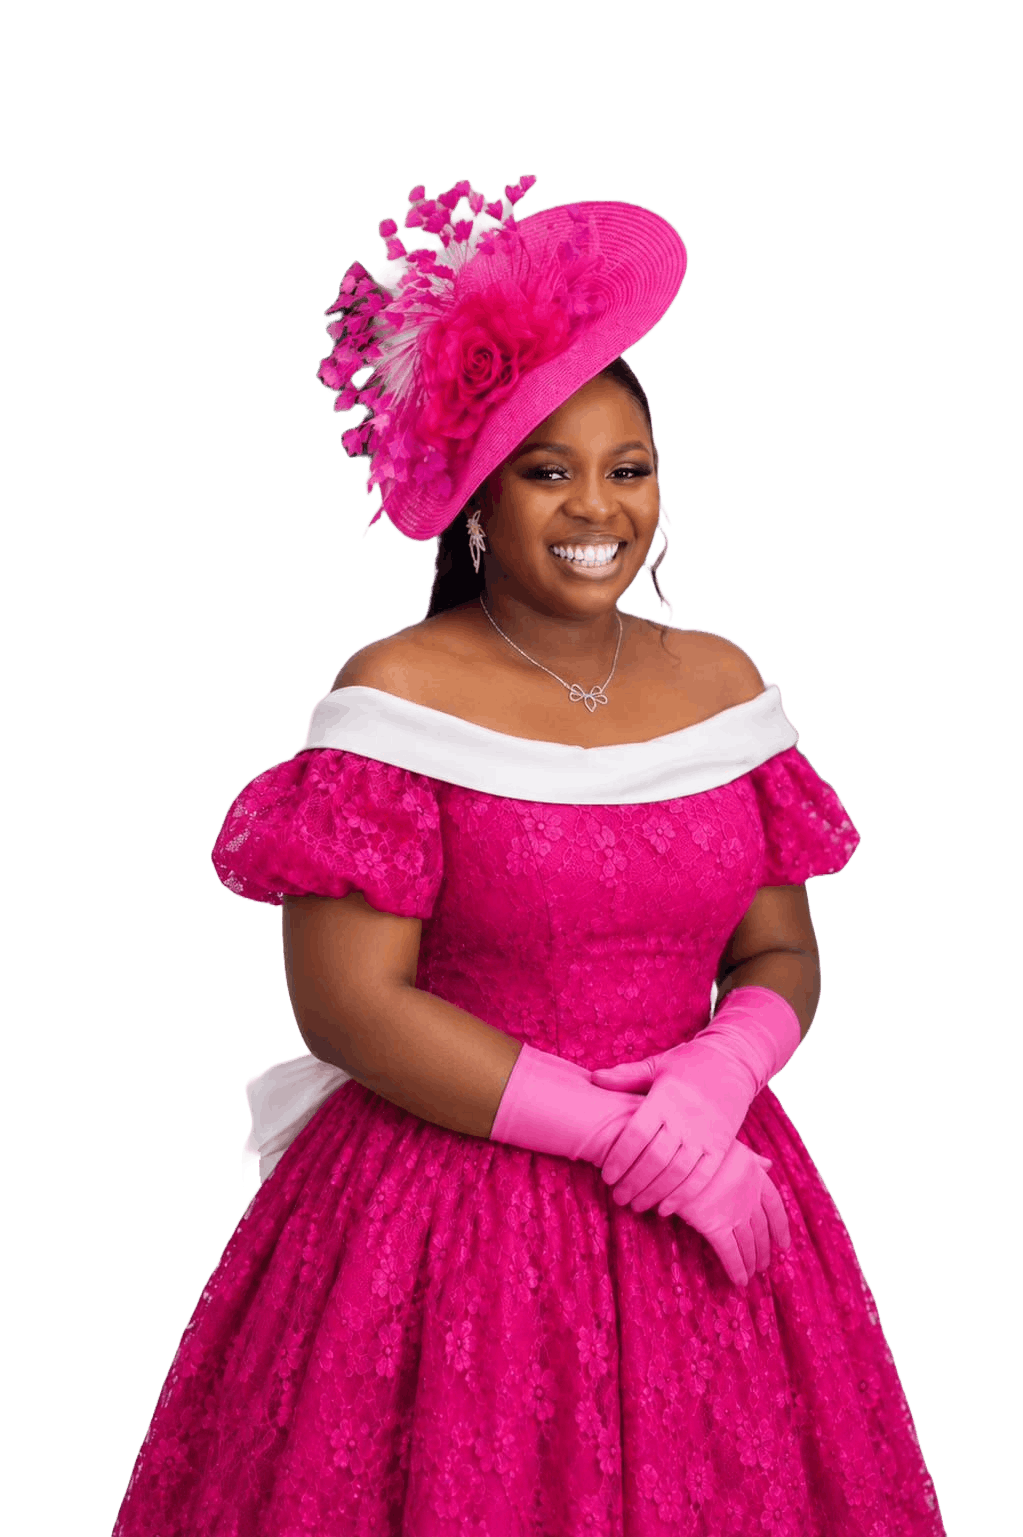
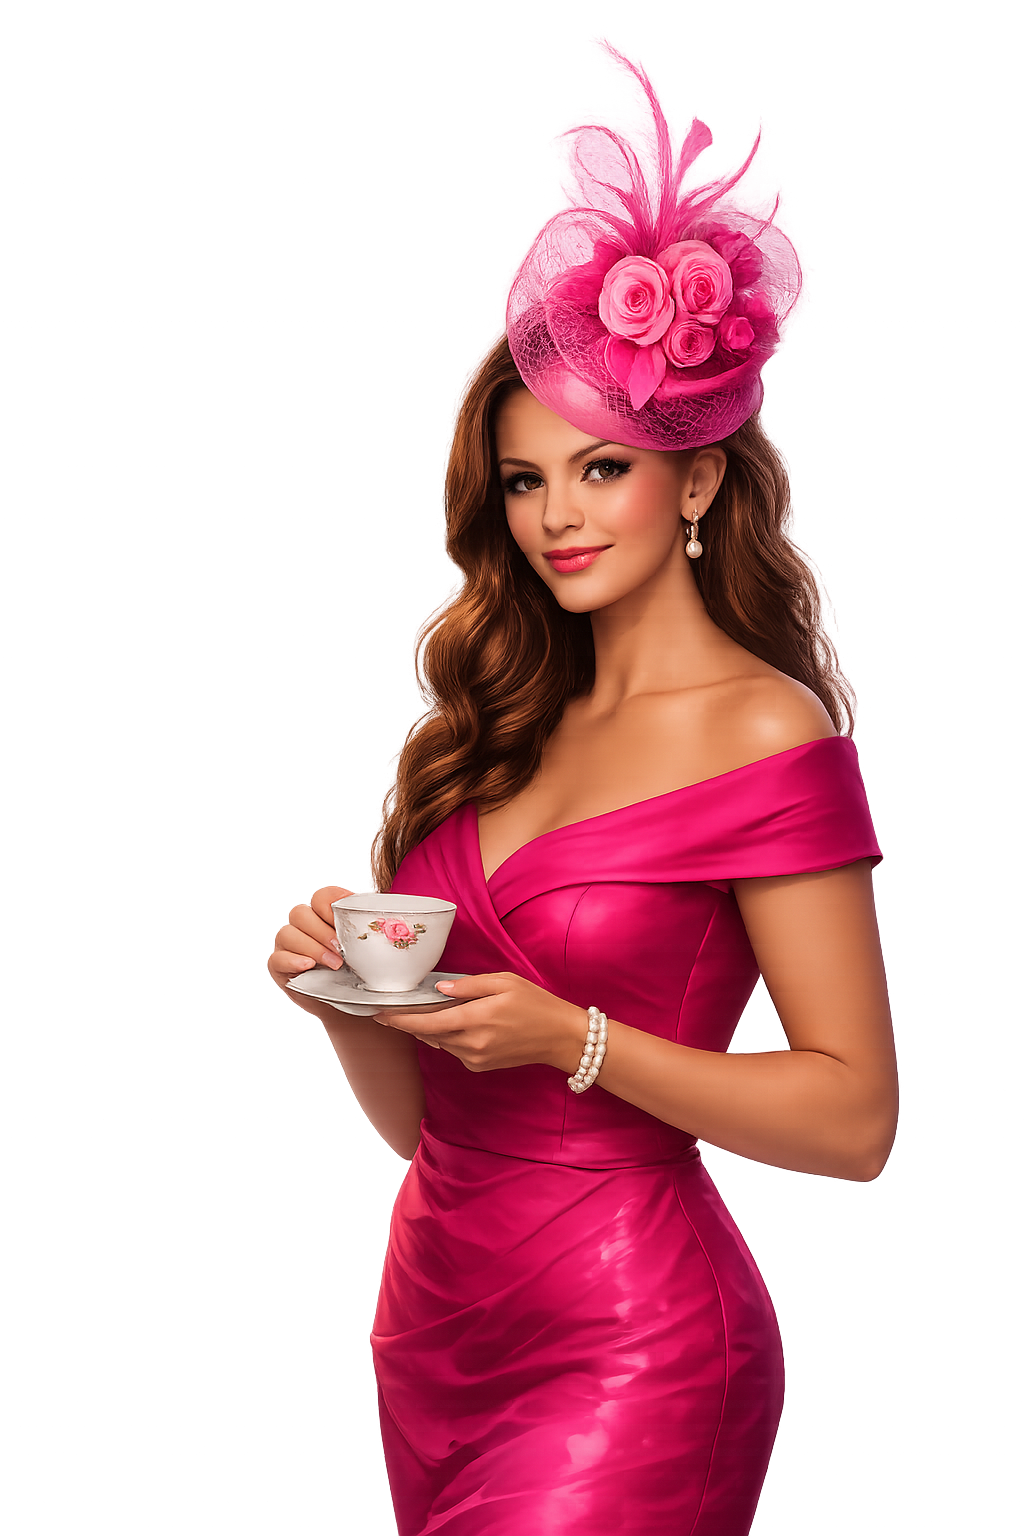
Initial commit

diff --git a/resources/views/landing.blade.php b/resources/views/landing.blade.php
@@ -379,62 +379,161 @@
 
  <!-- ==================== GALLERY SECTION ==================== -->
 <section class="py-16 sm:py-20 bg-[#0d0418]" id="gallery">
-    <div class="max-w-7xl mx-auto px-4 sm:px-6 lg:px-8">
-        <div class="text-center mb-12 sm:mb-16">
-            <p class="text-rose-300 text-sm uppercase tracking-[0.2em] mb-3 font-medium">Moments</p>
-            <h2 class="font-display text-3xl sm:text-4xl md:text-5xl font-bold text-white">Gallery</h2>
-        </div>
-        <div class="grid grid-cols-2 sm:grid-cols-3 lg:grid-cols-4 gap-4 sm:gap-5">
-            <!-- Item 1 -->
-            <div class="gallery-card rounded-2xl overflow-hidden aspect-[3/4] flex items-end p-4 relative"
-                 style="background-image: url('{{ asset('images/img1.jpg') }}'); background-size: cover; background-position: center;">
-                <div class="absolute inset-0 bg-gradient-to-t from-black/60 via-transparent to-transparent"></div>
-                <span class="relative z-10 text-white text-xs sm:text-sm font-medium">Sunset Deck</span>
-            </div>
-            <!-- Item 2 -->
-            <div class="gallery-card rounded-2xl overflow-hidden aspect-[3/4] flex items-end p-4 relative"
-                 style="background-image: url('{{ asset('images/img2.jpg') }}'); background-size: cover; background-position: center;">
-                <div class="absolute inset-0 bg-gradient-to-t from-black/60 via-transparent to-transparent"></div>
-                <span class="relative z-10 text-white text-xs sm:text-sm font-medium">Tea Service</span>
-            </div>
-            <!-- Item 3 -->
-            <div class="gallery-card rounded-2xl overflow-hidden aspect-[3/4] flex items-end p-4 relative"
-                 style="background-image: url('{{ asset('images/img3.jpg') }}'); background-size: cover; background-position: center;">
-                <div class="absolute inset-0 bg-gradient-to-t from-black/60 via-transparent to-transparent"></div>
-                <span class="relative z-10 text-white text-xs sm:text-sm font-medium">Golden Hour</span>
-            </div>
-            <!-- Item 4 - visible sm and up -->
-            <div class="gallery-card rounded-2xl overflow-hidden aspect-[3/4] flex items-end p-4 relative sm:block hidden"
-                 style="background-image: url('{{ asset('images/img4.jpg') }}'); background-size: cover; background-position: center;">
-                <div class="absolute inset-0 bg-gradient-to-t from-black/60 via-transparent to-transparent"></div>
-                <span class="relative z-10 text-white text-xs sm:text-sm font-medium">Canapés</span>
-            </div>
-            <!-- Item 5 - visible lg and up -->
-            <div class="gallery-card rounded-2xl overflow-hidden aspect-[3/4] flex items-end p-4 relative lg:block hidden"
-                 style="background-image: url('{{ asset('images/img5.jpg') }}'); background-size: cover; background-position: center;">
-                <div class="absolute inset-0 bg-gradient-to-t from-black/60 via-transparent to-transparent"></div>
-                <span class="relative z-10 text-white text-xs sm:text-sm font-medium">Live Music</span>
-            </div>
-            <!-- Item 6 - visible lg and up -->
-            <div class="gallery-card rounded-2xl overflow-hidden aspect-[3/4] flex items-end p-4 relative lg:block hidden"
-                 style="background-image: url('{{ asset('images/img1.jpg') }}'); background-size: cover; background-position: center;">
-                <div class="absolute inset-0 bg-gradient-to-t from-black/60 via-transparent to-transparent"></div>
-                <span class="relative z-10 text-white text-xs sm:text-sm font-medium">Keepsakes</span>
-            </div>
-            <!-- Item 7 - visible sm and up -->
-            <div class="gallery-card rounded-2xl overflow-hidden aspect-[3/4] flex items-end p-4 relative sm:block hidden"
-                 style="background-image: url('{{ asset('images/img7.jpg') }}'); background-size: cover; background-position: center;">
-                <div class="absolute inset-0 bg-gradient-to-t from-black/60 via-transparent to-transparent"></div>
-                <span class="relative z-10 text-white text-xs sm:text-sm font-medium">Evening Glow</span>
-            </div>
-            <!-- Item 8 -->
-            <div class="gallery-card rounded-2xl overflow-hidden aspect-[3/4] flex items-end p-4 relative"
-                 style="background-image: url('{{ asset('images/img8.jpg') }}'); background-size: cover; background-position: center;">
-                <div class="absolute inset-0 bg-gradient-to-t from-black/60 via-transparent to-transparent"></div>
-                <span class="relative z-10 text-white text-xs sm:text-sm font-medium">Cruise Views</span>
-            </div>
-        </div>
+  <div class="max-w-7xl mx-auto px-4 sm:px-6 lg:px-8">
+    <div class="text-center mb-12 sm:mb-16">
+      <p class="text-rose-300 text-sm uppercase tracking-[0.2em] mb-3 font-medium">Moments</p>
+      <h2 class="font-display text-3xl sm:text-4xl md:text-5xl font-bold text-white">Gallery</h2>
     </div>
+    <div class="grid grid-cols-2 sm:grid-cols-3 lg:grid-cols-4 gap-4 sm:gap-5">
+
+      <!-- Item 1 -->
+      <div class="gallery-card rounded-2xl overflow-hidden aspect-[3/4] relative">
+        <img
+          src="https://images.unsplash.com/photo-1710762633492-617ca7c87f2b?q=80&w=400&fm=webp"
+          srcset="
+            https://images.unsplash.com/photo-1710762633492-617ca7c87f2b?q=80&w=400&fm=webp 400w,
+            https://images.unsplash.com/photo-1710762633492-617ca7c87f2b?q=80&w=600&fm=webp 600w,
+            https://images.unsplash.com/photo-1710762633492-617ca7c87f2b?q=80&w=800&fm=webp 800w
+          "
+          sizes="(max-width: 640px) 50vw, (max-width: 1024px) 33vw, 25vw"
+          alt="Sunset Deck"
+          class="absolute inset-0 w-full h-full object-cover"
+          loading="eager"
+          fetchpriority="high"
+        >
+        <div class="absolute inset-0 bg-gradient-to-t from-black/60 via-transparent to-transparent"></div>
+        <span class="relative z-10 text-white text-xs sm:text-sm font-medium p-4">Sunset Deck</span>
+      </div>
+
+      <!-- Item 2 -->
+      <div class="gallery-card rounded-2xl overflow-hidden aspect-[3/4] relative">
+        <img
+          src="https://images.unsplash.com/photo-1620490448396-d03342d5f352?q=80&w=400&fm=webp"
+          srcset="
+            https://images.unsplash.com/photo-1620490448396-d03342d5f352?q=80&w=400&fm=webp 400w,
+            https://images.unsplash.com/photo-1620490448396-d03342d5f352?q=80&w=600&fm=webp 600w,
+            https://images.unsplash.com/photo-1620490448396-d03342d5f352?q=80&w=800&fm=webp 800w
+          "
+          sizes="(max-width: 640px) 50vw, (max-width: 1024px) 33vw, 25vw"
+          alt="Tea Service"
+          class="absolute inset-0 w-full h-full object-cover"
+          loading="eager"
+          fetchpriority="high"
+        >
+        <div class="absolute inset-0 bg-gradient-to-t from-black/60 via-transparent to-transparent"></div>
+        <span class="relative z-10 text-white text-xs sm:text-sm font-medium p-4">Tea Service</span>
+      </div>
+
+      <!-- Item 3 -->
+      <div class="gallery-card rounded-2xl overflow-hidden aspect-[3/4] relative">
+        <img
+          src="https://images.unsplash.com/photo-1529117218-5329a8d5e0f5?q=80&w=400&fm=webp"
+          srcset="
+            https://images.unsplash.com/photo-1529117218-5329a8d5e0f5?q=80&w=400&fm=webp 400w,
+            https://images.unsplash.com/photo-1529117218-5329a8d5e0f5?q=80&w=600&fm=webp 600w,
+            https://images.unsplash.com/photo-1529117218-5329a8d5e0f5?q=80&w=800&fm=webp 800w
+          "
+          sizes="(max-width: 640px) 50vw, (max-width: 1024px) 33vw, 25vw"
+          alt="Golden Hour"
+          class="absolute inset-0 w-full h-full object-cover"
+          loading="eager"
+        >
+        <div class="absolute inset-0 bg-gradient-to-t from-black/60 via-transparent to-transparent"></div>
+        <span class="relative z-10 text-white text-xs sm:text-sm font-medium p-4">Golden Hour</span>
+      </div>
+
+      <!-- Item 4 - visible sm and up -->
+      <div class="gallery-card rounded-2xl overflow-hidden aspect-[3/4] relative sm:block hidden">
+        <img
+          src="https://images.unsplash.com/photo-1659415930606-e06af6309f23?q=80&w=400&fm=webp"
+          srcset="
+            https://images.unsplash.com/photo-1659415930606-e06af6309f23?q=80&w=400&fm=webp 400w,
+            https://images.unsplash.com/photo-1659415930606-e06af6309f23?q=80&w=600&fm=webp 600w,
+            https://images.unsplash.com/photo-1659415930606-e06af6309f23?q=80&w=800&fm=webp 800w
+          "
+          sizes="(max-width: 640px) 50vw, (max-width: 1024px) 33vw, 25vw"
+          alt="Canapés"
+          class="absolute inset-0 w-full h-full object-cover"
+          loading="lazy"
+        >
+        <div class="absolute inset-0 bg-gradient-to-t from-black/60 via-transparent to-transparent"></div>
+        <span class="relative z-10 text-white text-xs sm:text-sm font-medium p-4">Canapés</span>
+      </div>
+
+      <!-- Item 5 - visible lg and up -->
+      <div class="gallery-card rounded-2xl overflow-hidden aspect-[3/4] relative lg:block hidden">
+        <img
+          src="https://images.unsplash.com/photo-1565035010268-a3816f98589a?q=80&w=400&fm=webp"
+          srcset="
+            https://images.unsplash.com/photo-1565035010268-a3816f98589a?q=80&w=400&fm=webp 400w,
+            https://images.unsplash.com/photo-1565035010268-a3816f98589a?q=80&w=600&fm=webp 600w,
+            https://images.unsplash.com/photo-1565035010268-a3816f98589a?q=80&w=800&fm=webp 800w
+          "
+          sizes="(max-width: 640px) 50vw, (max-width: 1024px) 33vw, 25vw"
+          alt="Live Music"
+          class="absolute inset-0 w-full h-full object-cover"
+          loading="lazy"
+        >
+        <div class="absolute inset-0 bg-gradient-to-t from-black/60 via-transparent to-transparent"></div>
+        <span class="relative z-10 text-white text-xs sm:text-sm font-medium p-4">Live Music</span>
+      </div>
+
+      <!-- Item 6 - visible lg and up -->
+      <div class="gallery-card rounded-2xl overflow-hidden aspect-[3/4] relative lg:block hidden">
+        <img
+          src="https://images.unsplash.com/photo-1652626076133-22a4ac122141?q=80&w=400&fm=webp"
+          srcset="
+            https://images.unsplash.com/photo-1652626076133-22a4ac122141?q=80&w=400&fm=webp 400w,
+            https://images.unsplash.com/photo-1652626076133-22a4ac122141?q=80&w=600&fm=webp 600w,
+            https://images.unsplash.com/photo-1652626076133-22a4ac122141?q=80&w=800&fm=webp 800w
+          "
+          sizes="(max-width: 640px) 50vw, (max-width: 1024px) 33vw, 25vw"
+          alt="Keepsakes"
+          class="absolute inset-0 w-full h-full object-cover"
+          loading="lazy"
+        >
+        <div class="absolute inset-0 bg-gradient-to-t from-black/60 via-transparent to-transparent"></div>
+        <span class="relative z-10 text-white text-xs sm:text-sm font-medium p-4">Keepsakes</span>
+      </div>
+
+      <!-- Item 7 - visible sm and up -->
+      <div class="gallery-card rounded-2xl overflow-hidden aspect-[3/4] relative sm:block hidden">
+        <img
+          src="https://images.unsplash.com/photo-1667697692321-19498f860107?q=80&w=400&fm=webp"
+          srcset="
+            https://images.unsplash.com/photo-1667697692321-19498f860107?q=80&w=400&fm=webp 400w,
+            https://images.unsplash.com/photo-1667697692321-19498f860107?q=80&w=600&fm=webp 600w,
+            https://images.unsplash.com/photo-1667697692321-19498f860107?q=80&w=800&fm=webp 800w
+          "
+          sizes="(max-width: 640px) 50vw, (max-width: 1024px) 33vw, 25vw"
+          alt="Evening Glow"
+          class="absolute inset-0 w-full h-full object-cover"
+          loading="lazy"
+        >
+        <div class="absolute inset-0 bg-gradient-to-t from-black/60 via-transparent to-transparent"></div>
+        <span class="relative z-10 text-white text-xs sm:text-sm font-medium p-4">Evening Glow</span>
+      </div>
+
+      <!-- Item 8 -->
+      <div class="gallery-card rounded-2xl overflow-hidden aspect-[3/4] relative">
+        <img
+          src="https://images.unsplash.com/photo-1563829904222-2c743e614282?q=80&w=400&fm=webp"
+          srcset="
+            https://images.unsplash.com/photo-1563829904222-2c743e614282?q=80&w=400&fm=webp 400w,
+            https://images.unsplash.com/photo-1563829904222-2c743e614282?q=80&w=600&fm=webp 600w,
+            https://images.unsplash.com/photo-1563829904222-2c743e614282?q=80&w=800&fm=webp 800w
+          "
+          sizes="(max-width: 640px) 50vw, (max-width: 1024px) 33vw, 25vw"
+          alt="Cruise Views"
+          class="absolute inset-0 w-full h-full object-cover"
+          loading="lazy"
+        >
+        <div class="absolute inset-0 bg-gradient-to-t from-black/60 via-transparent to-transparent"></div>
+        <span class="relative z-10 text-white text-xs sm:text-sm font-medium p-4">Cruise Views</span>
+      </div>
+
+    </div>
+  </div>
 </section>
 
 

diff --git a/resources/views/register.blade.php b/resources/views/register.blade.php
@@ -77,6 +77,13 @@
     .step-indicator {
       transition: all 0.4s cubic-bezier(0.25, 0.46, 0.45, 0.94);
     }
+
+    /* Payment tab active style */
+    .payment-tab-active {
+      background: rgba(255, 255, 255, 0.15);
+      box-shadow: 0 2px 8px rgba(0,0,0,0.2);
+      transform: translateY(-1px);
+    }
   </style>
 </head>
 
@@ -175,39 +182,72 @@
         x-transition:enter-start="opacity-0 translate-x-6" x-transition:enter-end="opacity-100 translate-x-0"
         style="display: none;">
         <h2 class="font-display text-2xl sm:text-3xl font-bold mb-1">Complete Payment</h2>
-        <p class="text-white/50 text-sm mb-6">Scan the QR code or use the Cash App tag below</p>
+        <p class="text-white/50 text-sm mb-6">Choose your payment method and scan the QR code</p>
 
+        <!-- Payment Tabs -->
         <div class="glass-card rounded-2xl p-5 sm:p-6 text-center">
-          <!-- Static QR image -->
-          <div class="bg-white rounded-xl p-3 inline-block mx-auto mb-4">
-            <img src="{{ asset('images/qr.jpg') }}" alt="Payment QR Code" class="w-[180px] h-[180px] object-contain">
-          </div>
-          <p class="text-gold-400 font-display text-2xl font-bold mb-2">$christabreland</p>
-          <p class="text-white/60 text-sm mb-4">
-            Total: <span class="text-white font-bold">$<span x-text="form.tickets * 200"></span></span>
-          </p>
-          <div class="flex flex-col sm:flex-row gap-3 justify-center mb-4">
-            <button @click="copyTag()"
-              class="tap-target px-5 py-3 glass-card rounded-full text-white text-sm font-medium hover:bg-white/12 transition-all flex items-center gap-2 justify-center">
-              <svg class="w-4 h-4" fill="none" stroke="currentColor" viewBox="0 0 24 24">
-                <rect x="9" y="9" width="13" height="13" rx="2" stroke-width="2" />
-                <path d="M5 15H4a2 2 0 01-2-2V4a2 2 0 012-2h9a2 2 0 012 2v1" stroke-width="2" />
-              </svg>
-              <span x-text="copyTagText">Copy Tag</span>
+          <!-- Tab buttons -->
+          <div class="flex gap-2 mb-6 bg-white/5 p-1 rounded-full">
+            <button 
+              @click="activePaymentTab = 'cashapp'"
+              :class="activePaymentTab === 'cashapp' ? 'payment-tab-active' : ''"
+              class="flex-1 py-2.5 px-4 rounded-full text-sm font-medium transition-all duration-300"
+            >
+              Cash App 
             </button>
-            <button @click="copyPaymentLink()"
-              class="tap-target px-5 py-3 glass-card rounded-full text-white text-sm font-medium hover:bg-white/12 transition-all flex items-center gap-2 justify-center">
-              <svg class="w-4 h-4" fill="none" stroke="currentColor" viewBox="0 0 24 24">
-                <path stroke-linecap="round" stroke-linejoin="round" stroke-width="2"
-                  d="M13.828 10.172a4 4 0 00-5.656 0l-4 4a4 4 0 105.656 5.656l1.102-1.101" />
-              </svg>
-              <span x-text="copyLinkText">Copy Link</span>
+            <button 
+              @click="activePaymentTab = 'zelle'"
+              :class="activePaymentTab === 'zelle' ? 'payment-tab-active' : ''"
+              class="flex-1 py-2.5 px-4 rounded-full text-sm font-medium transition-all duration-300"
+            >
+              🏦 Zelle
             </button>
           </div>
-          <p x-show="copySuccess" class="text-green-400 text-sm" x-text="copySuccess"></p>
+
+          <!-- Cash App Content -->
+          <div x-show="activePaymentTab === 'cashapp'" x-transition>
+            <div class="bg-white rounded-xl p-3 inline-block mx-auto mb-4">
+              <img src="{{ asset('images/qr.jpg') }}" alt="Cash App QR Code" class="w-[180px] h-[180px] object-contain">
+            </div>
+            <p class="text-gold-400 font-display text-2xl font-bold mb-2">$christabreland</p>
+            <p class="text-white/60 text-sm mb-4">
+              Total: <span class="text-white font-bold">$<span x-text="form.tickets * 200"></span></span>
+            </p>
+            <div class="flex flex-col sm:flex-row gap-3 justify-center">
+              <button @click="copyCashTag()"
+                class="tap-target px-5 py-3 glass-card rounded-full text-white text-sm font-medium hover:bg-white/12 transition-all flex items-center gap-2 justify-center">
+                <svg class="w-4 h-4" fill="none" stroke="currentColor" viewBox="0 0 24 24">
+                  <rect x="9" y="9" width="13" height="13" rx="2" stroke-width="2" />
+                  <path d="M5 15H4a2 2 0 01-2-2V4a2 2 0 012-2h9a2 2 0 012 2v1" stroke-width="2" />
+                </svg>
+                <span x-text="copyTagText">Copy Tag</span>
+              </button>
+              <button @click="copyCashLink()"
+                class="tap-target px-5 py-3 glass-card rounded-full text-white text-sm font-medium hover:bg-white/12 transition-all flex items-center gap-2 justify-center">
+                <svg class="w-4 h-4" fill="none" stroke="currentColor" viewBox="0 0 24 24">
+                  <path stroke-linecap="round" stroke-linejoin="round" stroke-width="2"
+                    d="M13.828 10.172a4 4 0 00-5.656 0l-4 4a4 4 0 105.656 5.656l1.102-1.101" />
+                </svg>
+                <span x-text="copyLinkText">Copy Link</span>
+              </button>
+            </div>
+          </div>
+
+          <!-- Zelle Content -->
+          <div x-show="activePaymentTab === 'zelle'" x-transition>
+            <div class="bg-white rounded-xl p-3 inline-block mx-auto mb-4">
+              <img src="{{ asset('images/zelle-qr.jpg') }}" alt="Zelle QR Code" class="w-[180px] h-[180px] object-contain">
+            </div>
+            <p class="text-gold-400 font-display text-2xl font-bold mb-2">Christa Breland</p>
+            <p class="text-white/60 text-sm mb-4">
+              Total: <span class="text-white font-bold">$<span x-text="form.tickets * 200"></span></span>
+            </p>
+          </div>
+          
+          <p x-show="copySuccess" class="text-green-400 text-sm mt-3" x-text="copySuccess"></p>
         </div>
 
-        <!-- Finalize button (replaces old "I Have Completed Payment" and step 3) -->
+        <!-- Finalize button (outside tabs, same for both) -->
         <button @click="finalizeRegistration()"
           :disabled="submitting"
           class="tap-target w-full mt-5 py-4 bg-gradient-to-r from-fuchsia-600 to-rose-500 rounded-full text-white font-semibold text-lg premium-shadow hover:shadow-xl hover:shadow-rose-500/40 transition-all duration-300 disabled:opacity-60 disabled:cursor-not-allowed">
@@ -220,8 +260,6 @@
             Submitting...
           </span>
         </button>
-
-        
       </div>
     </div>
 
@@ -273,16 +311,20 @@
         registrationDbId: null,
         showConfirmation: false,
         confirmationData: { registration_id: '', ticket_number: '' },
+        // Payment tab
+        activePaymentTab: 'cashapp',
+        // Cash App copy state
         copyTagText: 'Copy Tag',
         copyLinkText: 'Copy Link',
+        // Zelle copy state
+        zelleCopyText: 'Copy Zelle Info',
+        zelleDetail: 'christabreland', 
         copySuccess: '',
         submitting: false,
         submittingStep1: false,
         toast: { show: false, message: '', type: 'success' },
 
-        // No timer, no QR generation, no file/reference handling needed
-
-        copyTag() {
+        copyCashTag() {
           navigator.clipboard.writeText('$TeaPartyCruise').then(() => {
             this.copyTagText = 'Copied!';
             this.copySuccess = 'Cash App tag copied!';
@@ -292,7 +334,7 @@
             setTimeout(() => { this.copyTagText = 'Copy Tag'; }, 2000);
           });
         },
-        copyPaymentLink() {
+        copyCashLink() {
           navigator.clipboard.writeText('https://cash.app/$christabreland?qr=1').then(() => {
             this.copyLinkText = 'Copied!';
             this.copySuccess = 'Payment link copied!';
@@ -302,6 +344,7 @@
             setTimeout(() => { this.copyLinkText = 'Copy Link'; }, 2000);
           });
         },
+       
 
         async submitStep1() {
           this.error = '';
@@ -339,7 +382,6 @@
           }
           const csrf = document.querySelector('meta[name="csrf-token"]').getAttribute('content');
           
-          // No FormData needed – we're just confirming payment without extra info
           this.submitting = true;
           try {
             const res = await fetch(`/api/register/finalize/${this.registrationDbId}`, {